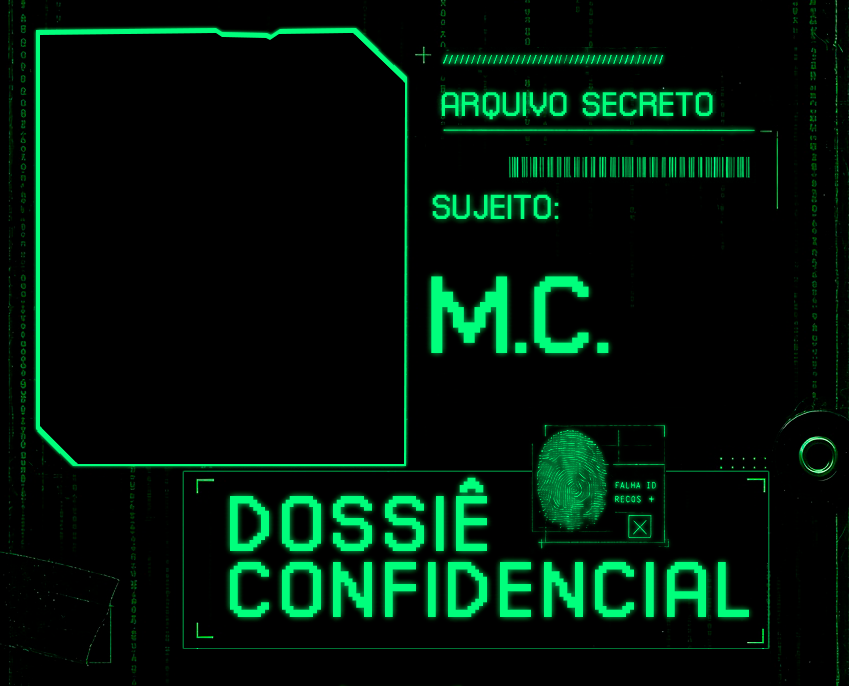
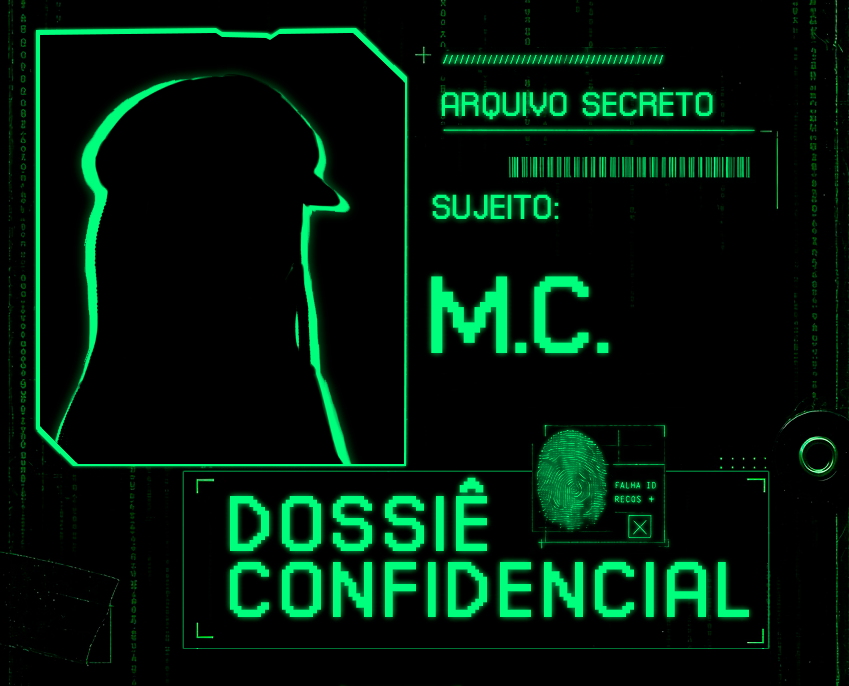
Substituíndo placeholders

diff --git a/script.js b/script.js
@@ -249,9 +249,9 @@ const missions = [
   },
   {
     code: "MIS-002",
-    title: "ARQUIVO: PONTO CEGO",
+    title: "ARQUIVO: LÂMINA",
     status: "AGUARDANDO",
-    location: "SETOR 07",
+    location: "AURORA — RS",
     briefing:
       "A Agência recebeu um alerta referente a uma ocorrência paranormal em uma residência localizada em uma área residencial do estado de São Paulo. Uma equipe de reconhecimento foi enviada ao local após a identificação de uma alteração considerada de baixo risco pelo N.A.V.I.. A análise preliminar indicava uma região classificada como N1, com a membrana aparentemente intacta e sem registros de manifestações de grande intensidade. A situação, entretanto, evoluiu de maneira incompatível com a classificação inicial. Uma comunicação interna registrada posteriormente ao incidente relata a presença de cinco a seis vítimas fatais no interior da residência. Entre elas encontram-se membros da própria Agência. O local permanece isolado. A equipe enviada deverá realizar uma varredura completa do local, levantando informações sobre:",
     objectives: ["."],
